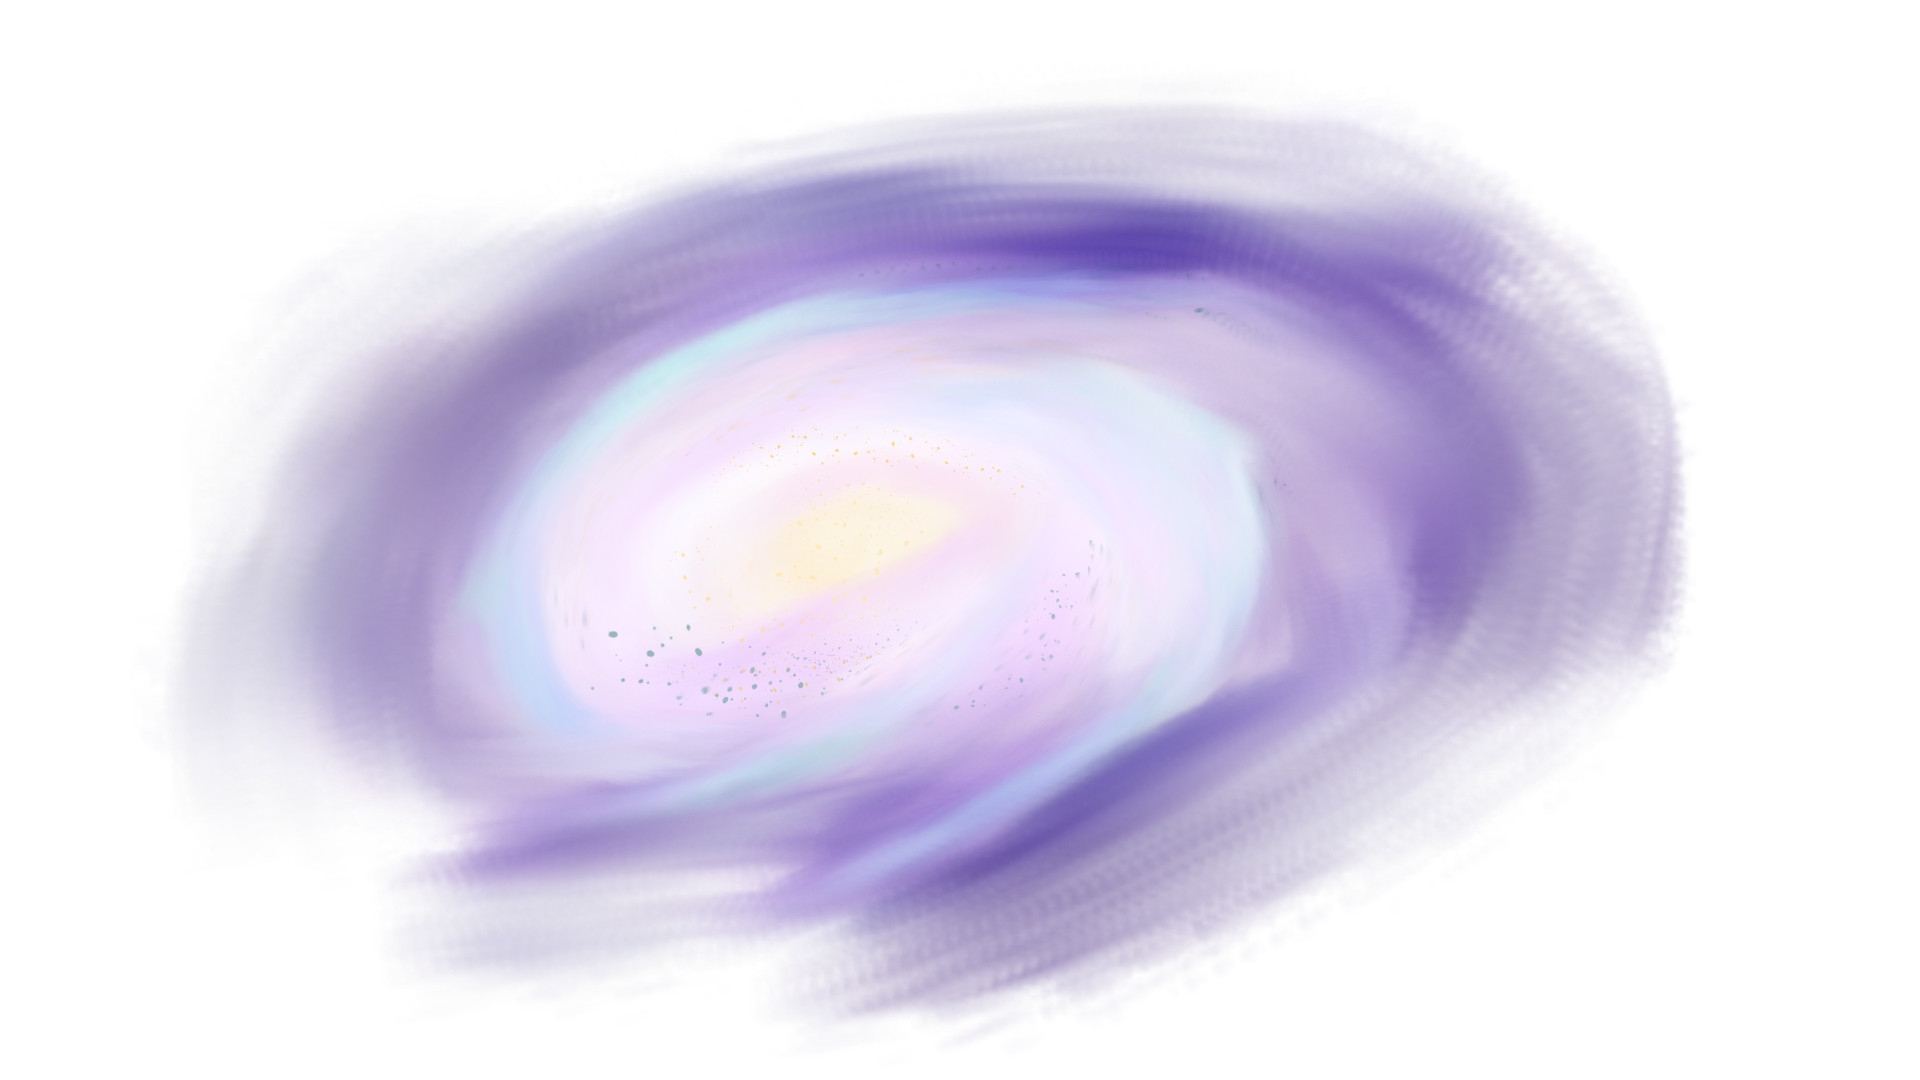
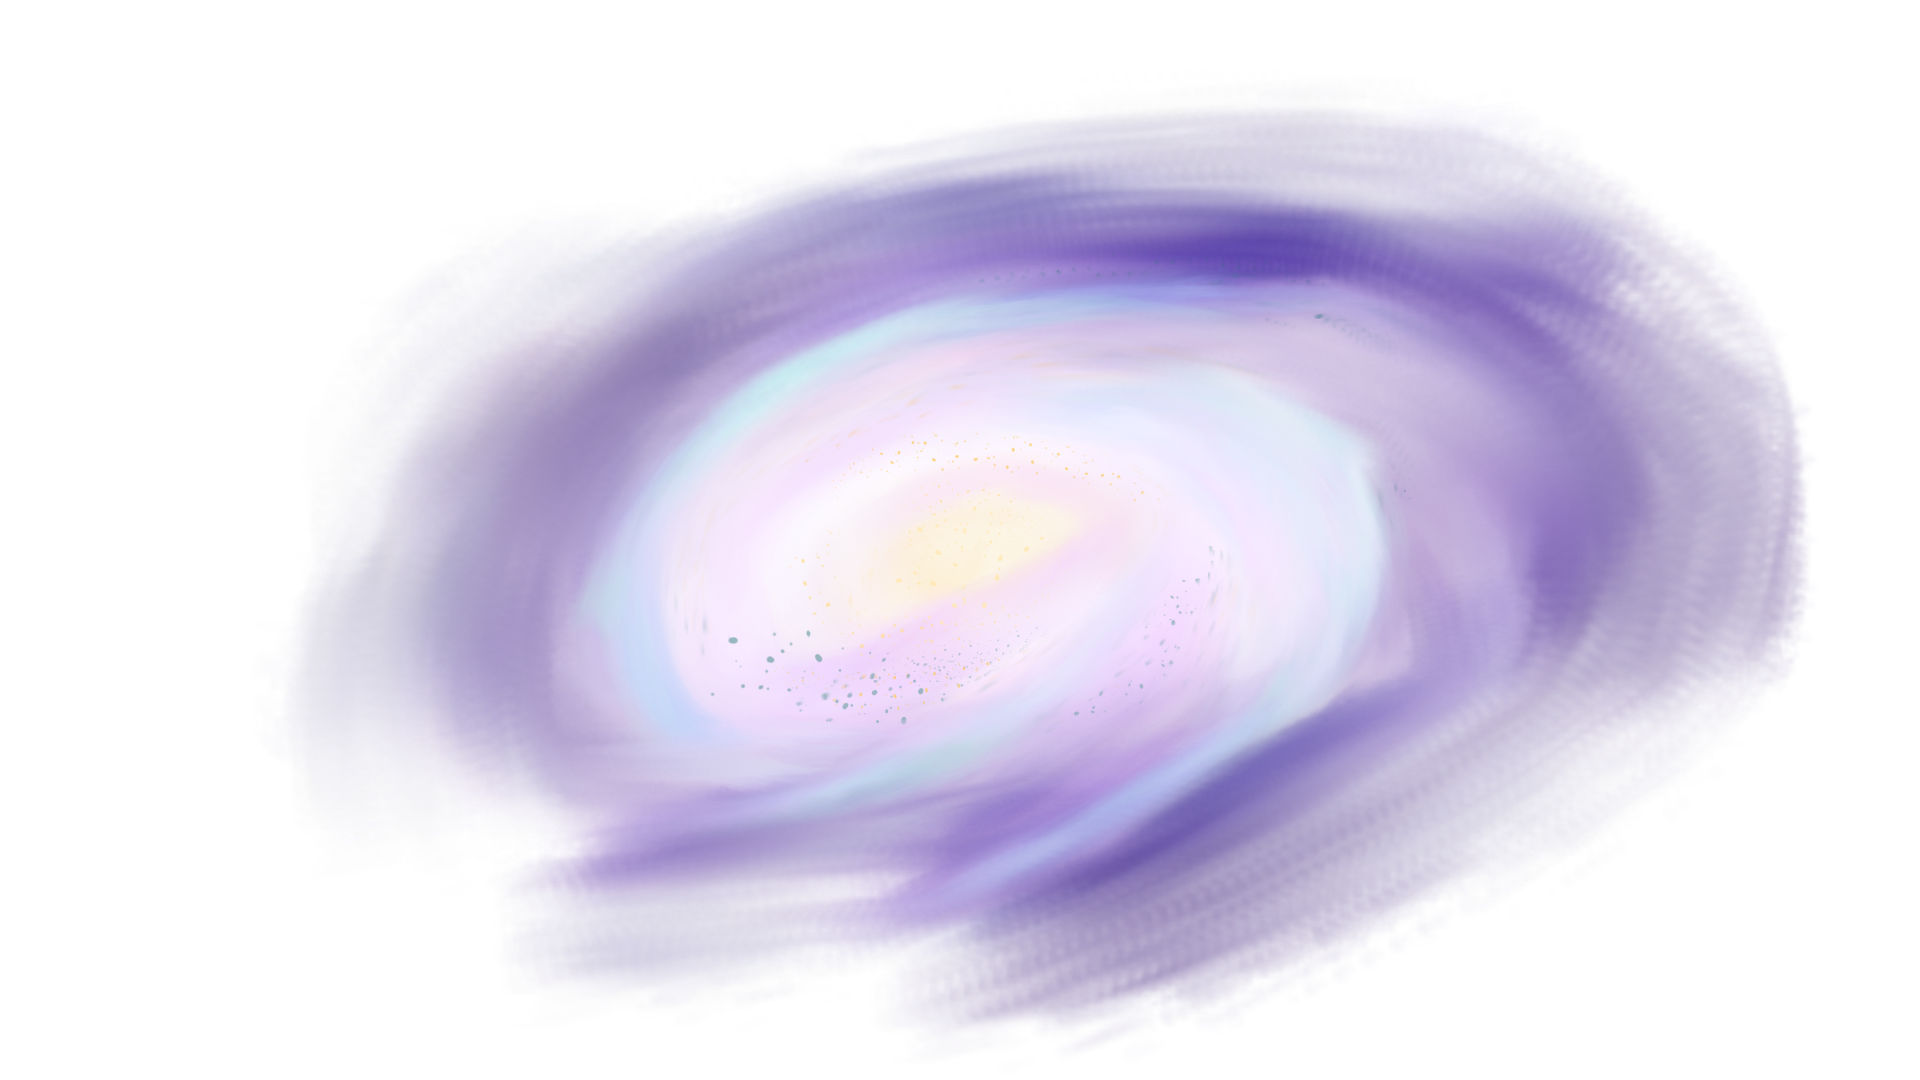
animation

diff --git a/Res/index.html b/Res/index.html
@@ -166,7 +166,7 @@ img {
   var color = [128, 0, 255];
 
   //get particle origin
-  var origin = [w/2 - 200, h/2 + 200];
+  var origin = [w/2, h/2];
 
   //generate a particle
   var getParticle = function() {
@@ -176,7 +176,7 @@ img {
   //create particles and store in arr
   var particles = (function() {
     var arr = [],i=0;
-    while(i++ < 40)
+    while(i++ < 25)
       arr.push(getParticle());
     return arr;
   })();
@@ -204,7 +204,7 @@ img {
         particle[2] += 0.05;
 
       //fade out at distance
-      var alpha = 1;
+      var alpha = 1 - (dis/(hyp*0.5));
 
       //determine particle size
       var size = i%2 == 0 ? 2 : 4;
